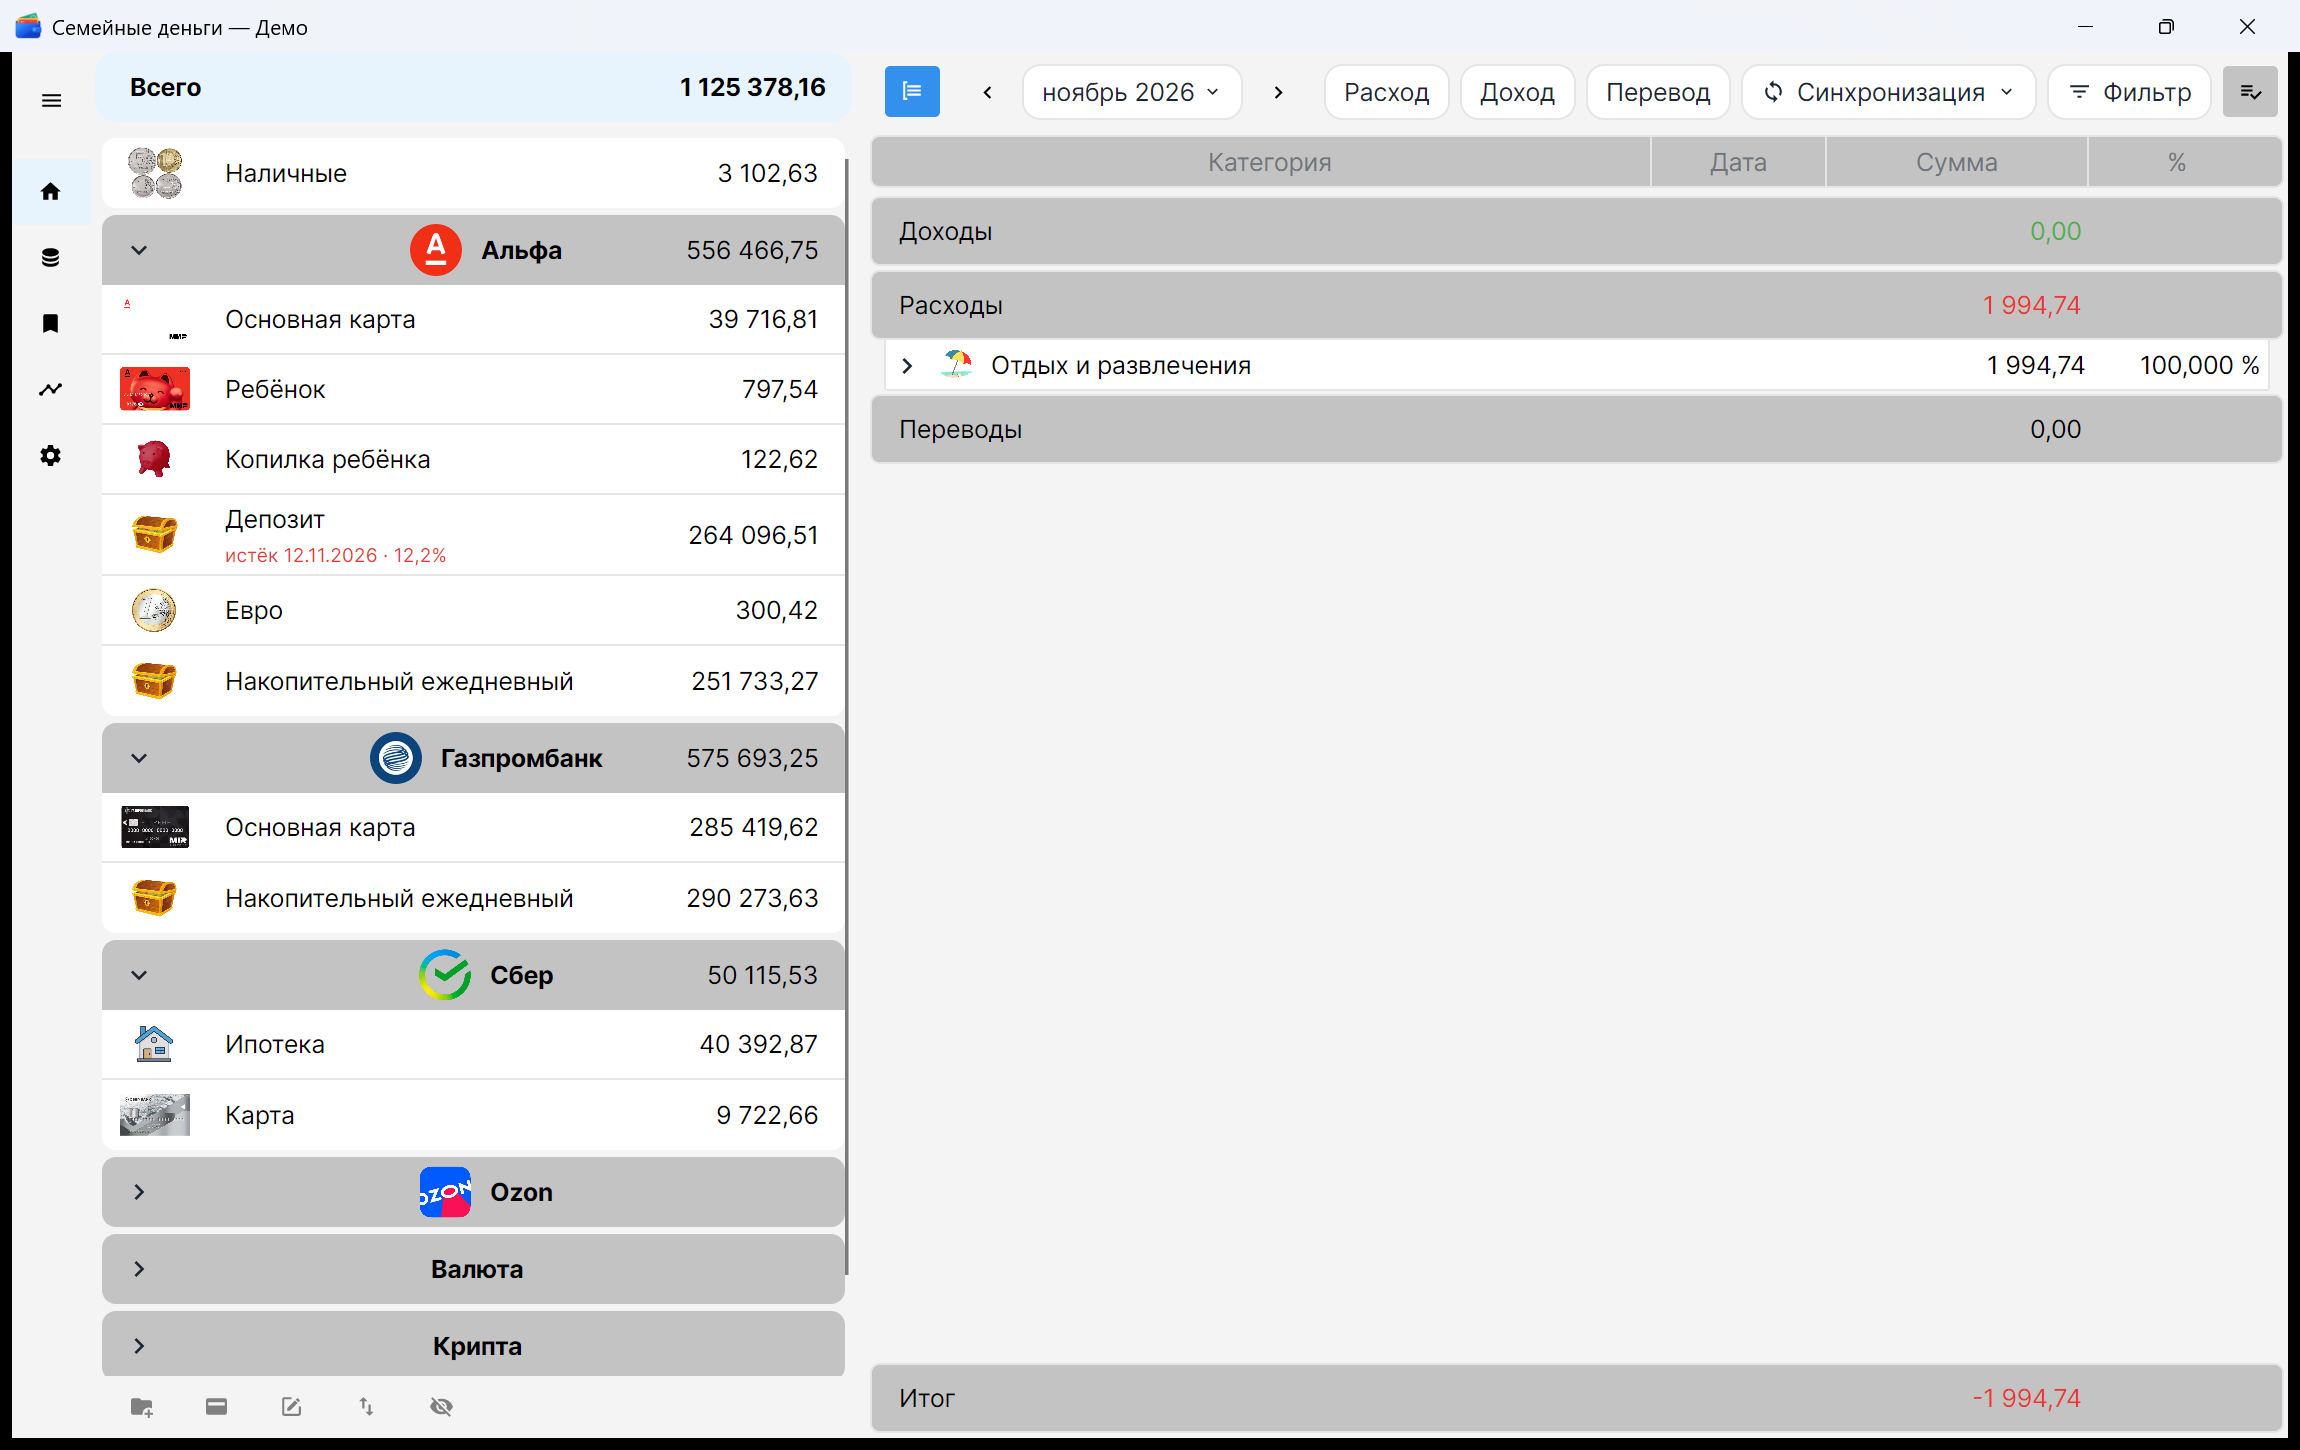
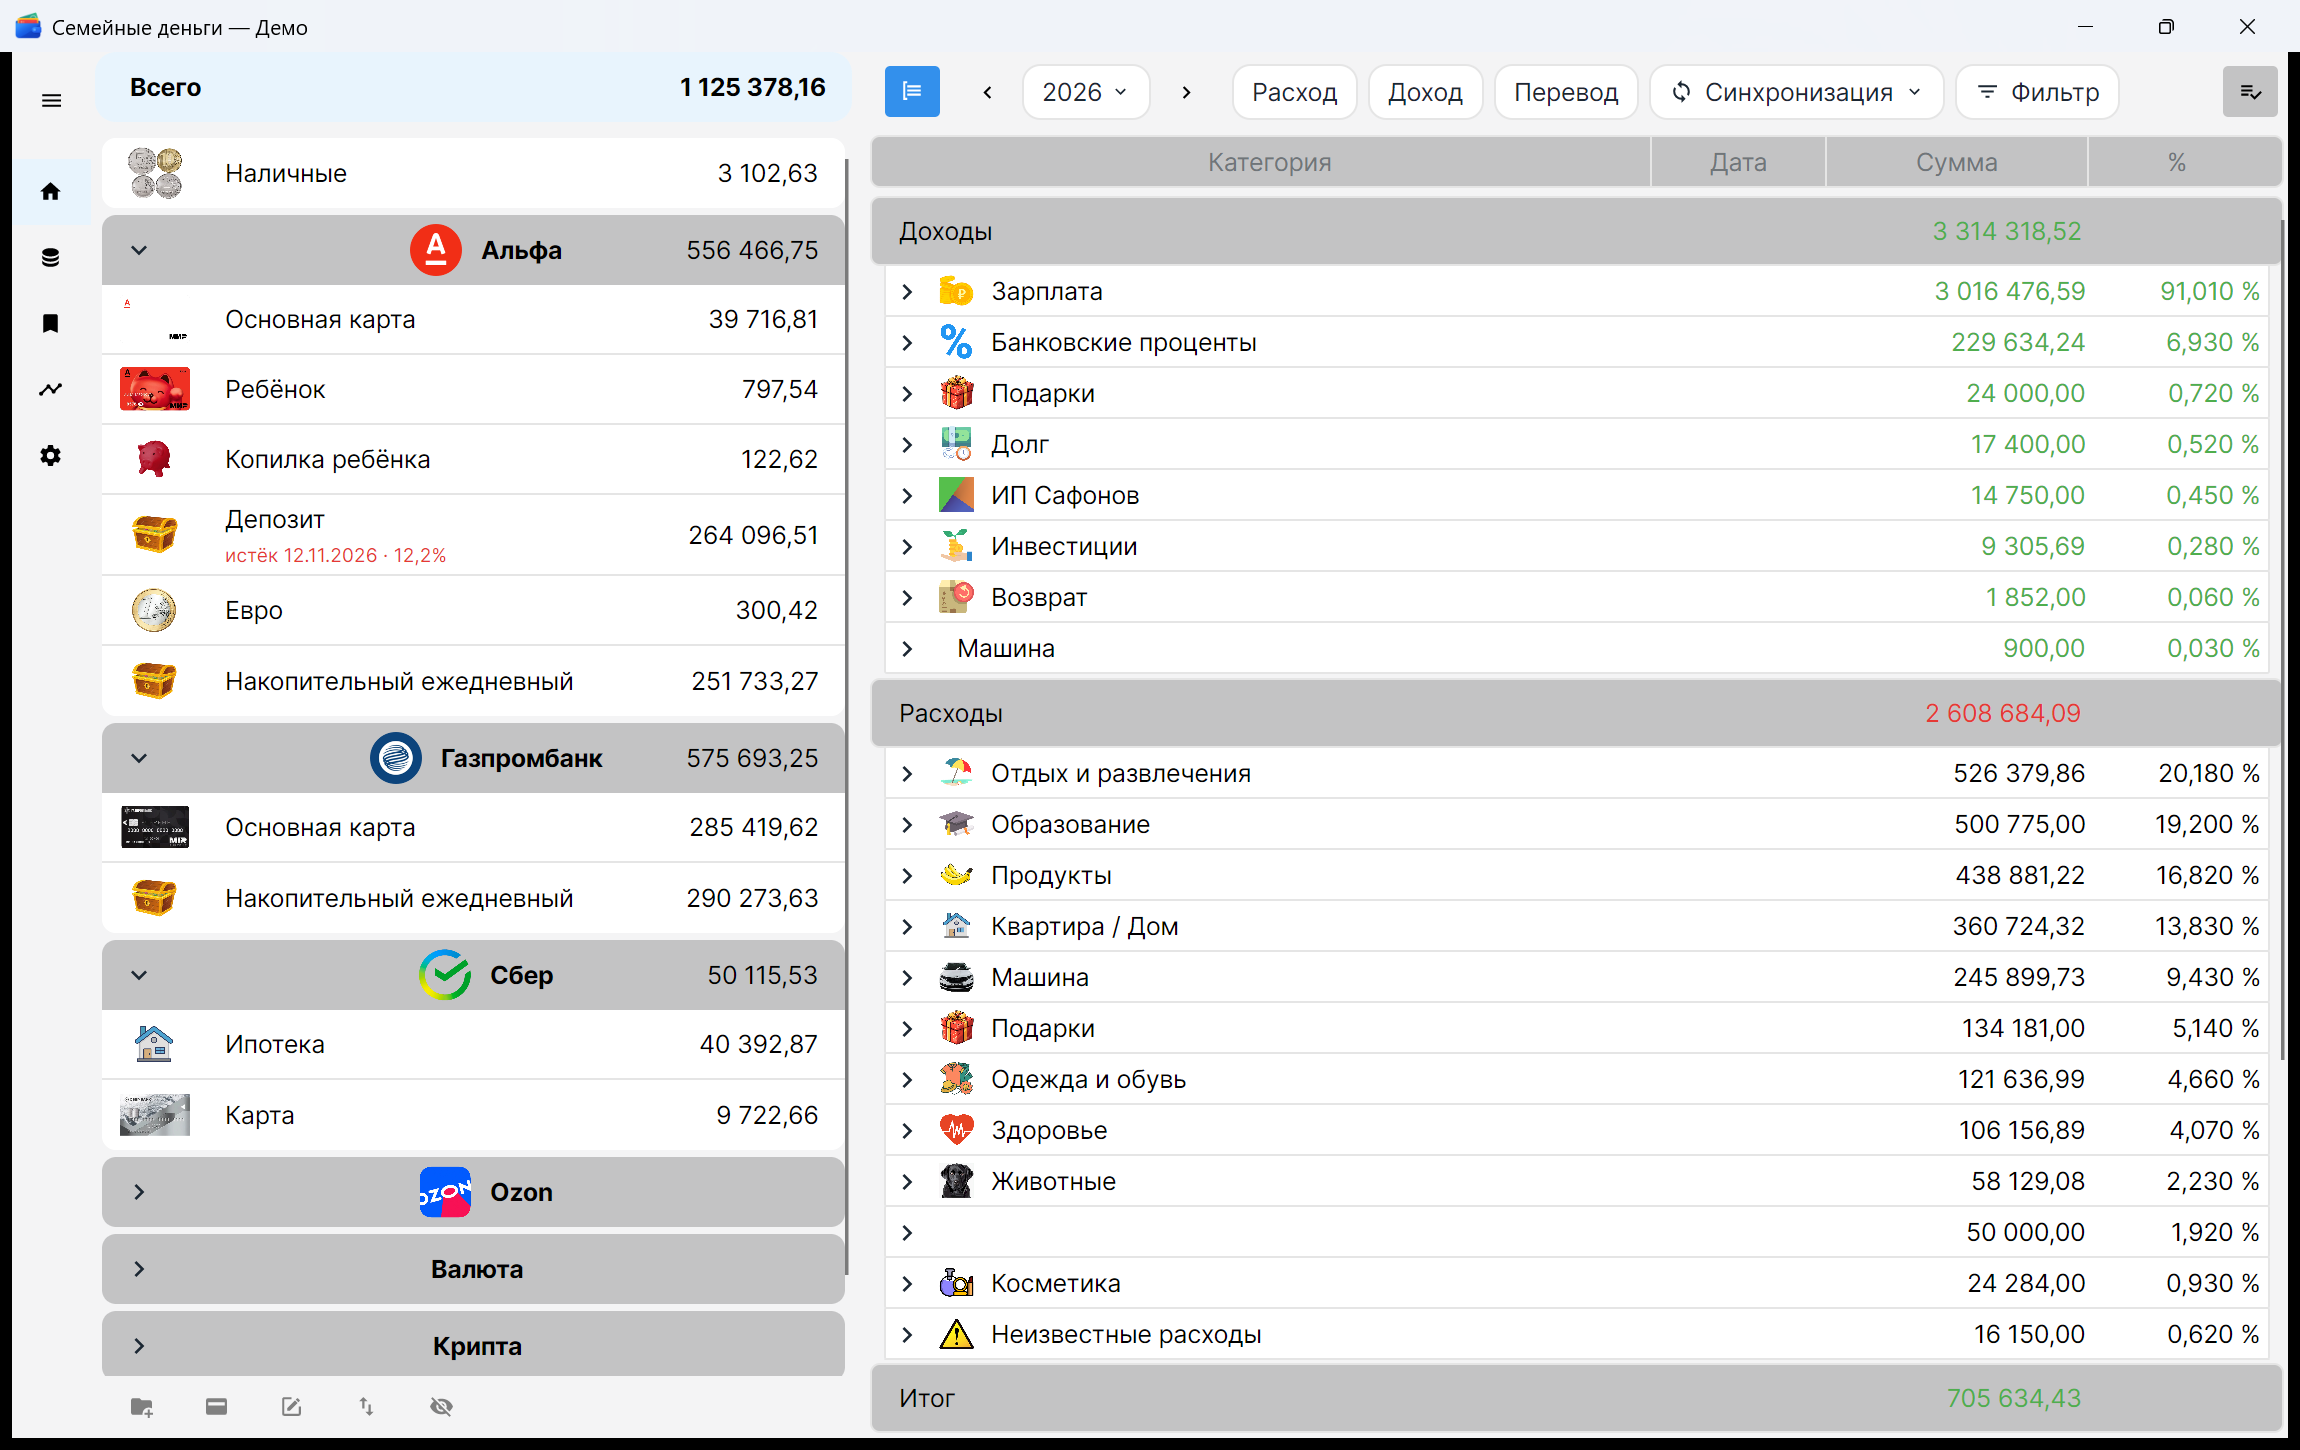
docs: refresh screenshots and add mobile UI

diff --git a/AGENTS.md b/AGENTS.md
@@ -1,0 +1,22 @@
+# Правила работы с репозиторием
+
+## Git
+
+- Никогда не выполнять `git commit` и `git push` без явной просьбы пользователя.
+- Все изменения оставлять в рабочем дереве — коммитит и пушит только пользователь.
+- Для проверки состояния можно использовать `git status`, `git diff`, `git log`
+  и `git ls-remote`; эти команды ничего не меняют.
+
+## Скриншоты
+
+- Снимать только на демонстрационной базе, не на реальных финансовых данных.
+- Перед съёмкой выбирать период **«Год»**, для текущей демо-базы — **2026**,
+  чтобы на экране было больше транзакций и скриншот был нагляднее.
+- Обновлять файлы:
+  - `resources/main.png` — десктоп, тёмная тема;
+  - `resources/main_white.png` — десктоп, светлая тема;
+  - `resources/mobile-main.png` — телефон, список по дням;
+  - `resources/mobile-summary.png` — телефон, сводка по категориям;
+  - `resources/mobile-tablet.png` — планшет, широкая раскладка.
+- Мобильные скриншоты снимать в телефонном и планшетном размерах; интерфейс
+  Android и компактного desktop общий.
